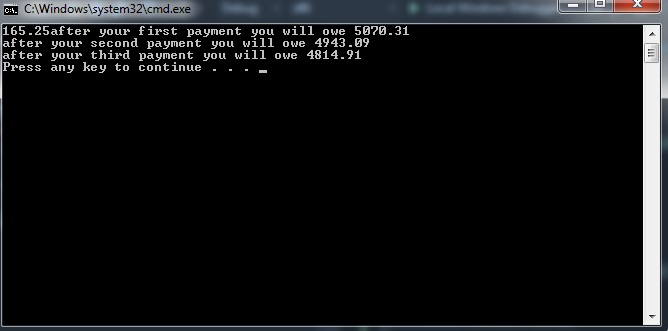
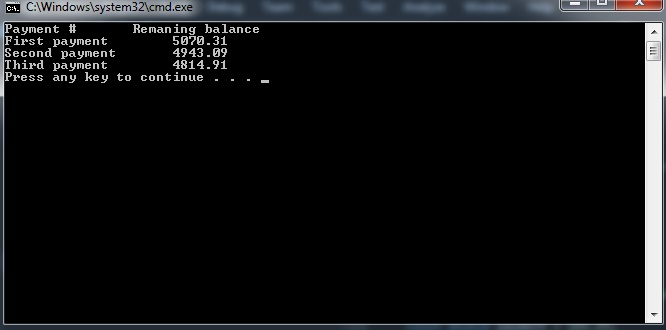
Format
Changed the format of the output

Changed region(s): [[0.0, 0.0, 1.0, 1.0], [0.3904, 0.2121, 0.4204, 0.2727], [0.5405, 0.0, 0.5706, 0.0303]]

diff --git a/CSCI 2473/Chapter 3/Assignment 3B/Assignment3B.cpp b/CSCI 2473/Chapter 3/Assignment 3B/Assignment3B.cpp
@@ -29,9 +29,13 @@ double baIN3 = payment * (1 - pow(1 + monintrate, month3 - totnum)) / monintrate
 
 int main()
 {	
+	cout << fixed << showpoint << setprecision(2);
+	cout << setw(6) << "Payment # " << setw(22) << "Remaning balance" << endl;
+
 	//outputs the balance after each months payment
-	cout << "Your balance after your first payment will be $" << baIN << endl;
-	cout << "Your balance after your second payment will be $"<< baIN2 << endl;
-	cout << "Your balance after your third payment will be $" << baIN3 << endl;
+	cout << setw(11) << "First payment" << setw(15) << baIN << setw(10) << endl;
+	cout << setw(11) << "Second payment" << setw(14) << baIN2 << setw(10) << endl;
+	cout << setw(11) << "Third payment" << setw(15) << baIN3 << setw(10) << endl;
+	
 	return 0;
 }
